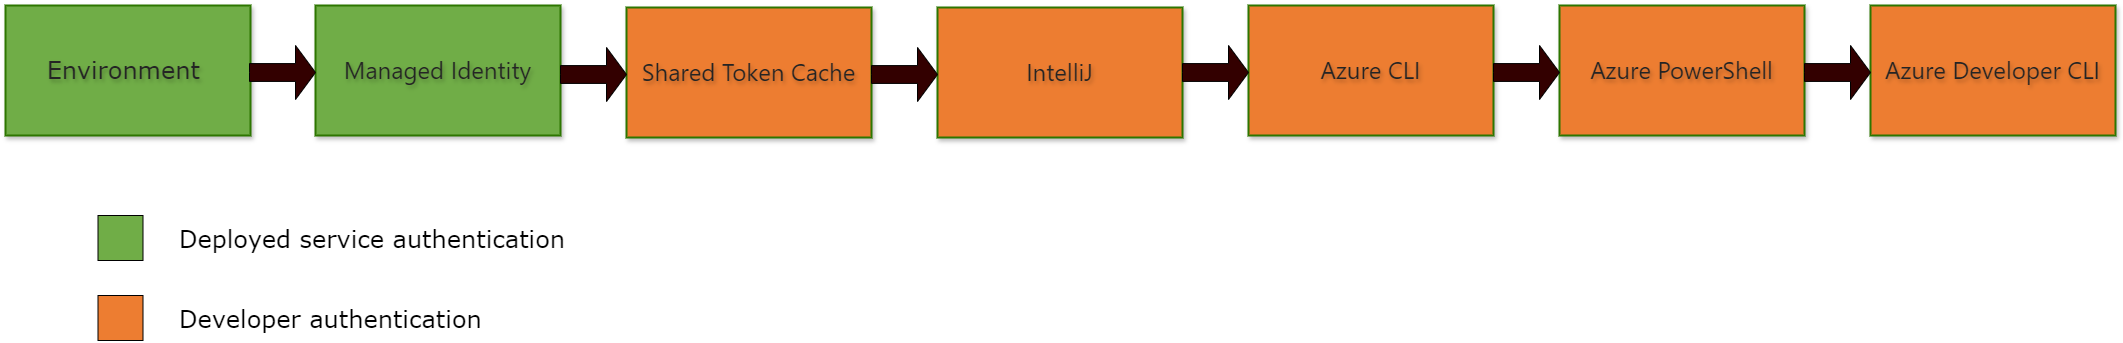
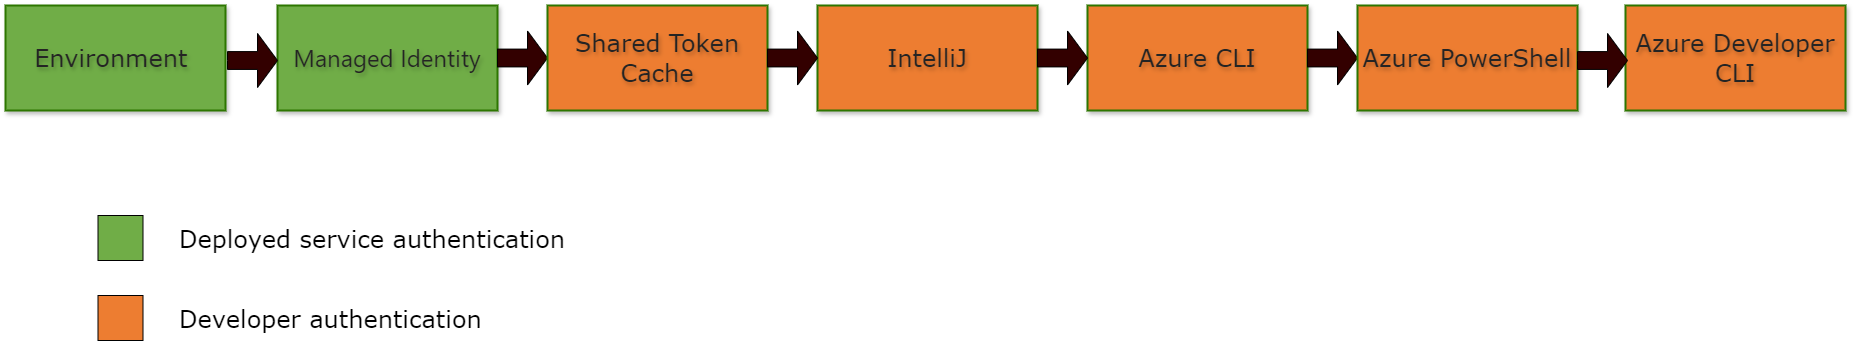
Improve png and applied suggestions from Scorecard

Changed region(s): [[0.0, 0.0, 1.0, 0.4373], [0.0308, 0.6122, 0.3076, 0.758], [0.0308, 0.8455, 0.2768, 1.0]]

diff --git a/articles/java/spring-framework/authentication.md b/articles/java/spring-framework/authentication.md
@@ -16,53 +16,53 @@ This article describes all the Spring Cloud Azure authentication methods.
 
 ## DefaultAzureCredential
 
-The `DefaultAzureCredential` is appropriate for most scenarios where the application is intended to be run in the Azure Cloud. This is because the `DefaultAzureCredential` combines credentials commonly used to authenticate when deployed with credentials used to authenticate in a development environment.
+The `DefaultAzureCredential` is appropriate for most scenarios where the application is intended to be run in the Azure Cloud, which is because the `DefaultAzureCredential` combines credentials commonly used to authenticate when deployed with credentials used to authenticate in a development environment.
 
 > [!NOTE]
-> `DefaultAzureCredential` is intended to simplify getting started with the Azure SDK by handling common scenarios with reasonable default behaviors. If you want more control or your scenario isn't served by the default settings, you should use other credential types.
+> `DefaultAzureCredential` is intended to simplify getting started with the Azure SDK by handling common scenarios with reasonable default behaviors. If you want more control or the default settings does not meet your scenario, you should use other credential types.
 
-The `DefaultAzureCredential` will attempt to authenticate via the following mechanisms in order:
+The `DefaultAzureCredential` attempts to authenticate via the following mechanisms in order:
 
 :::image type="content" source="media/spring-cloud-azure/default-azure-credential-authentication.png" alt-text="Diagram showing the authentication mechanism for `DefaultAzureCredential`." border="false":::
 
-* Environment - The `DefaultAzureCredential` will read account information specified via environment variables and use it to authenticate.
-* Managed Identity - If the application is deployed to an Azure host with Managed Identity enabled, the `DefaultAzureCredential` will authenticate with that account.
-* Shared Token Cache - If you've authenticated via Visual Studio, the `DefaultAzureCredential` will authenticate with that account.
-* IntelliJ - If you've authenticated via Azure Toolkit for IntelliJ, the `DefaultAzureCredential` will authenticate with that account.
-* Azure CLI - If you've authenticated an account via the Azure CLI `az login` command, the `DefaultAzureCredential` will authenticate with that account.
-* Azure PowerShell - If you've authenticated via the Azure Powershell, the `DefaultAzureCredential` will authenticate with that account.
-* Azure Developer CLI - If you've authenticated via the Azure Developer CLI, the `DefaultAzureCredential` will authenticate with that account.
+* Environment - The `DefaultAzureCredential` tries to read account information specified via environment variables and use it to authenticate.
+* Managed Identity - If the application is deployed to an Azure host with Managed Identity enabled, the `DefaultAzureCredential` tries to authenticate with that account.
+* Shared Token Cache - If you authenticated via Visual Studio, the `DefaultAzureCredential` tries to authenticate with that account.
+* IntelliJ - If you authenticated via Azure Toolkit for IntelliJ, the `DefaultAzureCredential` tries to authenticate with that account.
+* Azure CLI - If you authenticated an account via the Azure CLI `az login` command, the `DefaultAzureCredential` tries to authenticate with that account.
+* Azure PowerShell - If you authenticated via the Azure PowerShell, the `DefaultAzureCredential` tries to authenticate with that account.
+* Azure Developer CLI - If you authenticated via the Azure Developer CLI, the `DefaultAzureCredential` tries to authenticate with that account.
 
 > [!TIP]
-> Be sure the security principal has been granted sufficient permission to access the Azure resource. For more information, see [Authorize access with Microsoft Entra ID](#authorize-access-with-azure-active-directory).
+> Be sure the security principal has sufficient permission to access the Azure resource. For more information, see [Authorize access with Microsoft Entra ID](#authorize-access-with-azure-active-directory).
 
 > [!NOTE]
-> Since Spring Cloud Azure AutoConfigure 4.1.0, a `ThreadPoolTaskExecutor` bean named `springCloudAzureCredentialTaskExecutor` will be automatically registered by default and will manage all threads created by Azure Identity. The name of each thread managed by this thread pool is prefixed with `az-identity-`. This `ThreadPoolTaskExecutor` bean is independent of the `Executor` bean provided by Spring Boot.
+> Since Spring Cloud Azure AutoConfigure 4.1.0, register a `ThreadPoolTaskExecutor` bean named `springCloudAzureCredentialTaskExecutor` to manage all threads created by Azure Identity. The name of each thread managed by this thread pool is prefixed with `az-identity-`. This `ThreadPoolTaskExecutor` bean is independent of the `Executor` bean provided by Spring Boot.
 
 ## Managed identities
 
 A common challenge is the management of secrets and credentials used to secure communication between different components making up a solution. Managed identities eliminate the need to manage credentials. Managed identities provide an identity for applications to use when connecting to resources that support Microsoft Entra authentication. Applications may use the managed identity to obtain Microsoft Entra tokens. For example, an application may use a managed identity to access resources like Azure Key Vault where you can store credentials in a secure manner or to access storage accounts.
 
-We encourage using managed identity instead of using connection string or key in your application because it's more secure and will save the trouble of managing secrets and credentials. In this case, `DefaultAzureCredential` could better serve the scenario of developing locally using account information stored locally, then deploying the application to Azure Cloud and using managed identity.
+We encourage using managed identity instead of using connection string or key in your application because it's more secure and saves the trouble of managing secrets and credentials. In this case, `DefaultAzureCredential` could better serve the scenario of developing locally using account information stored locally, then deploying the application to Azure Cloud and using managed identity.
 
 ### Managed identity types
 
 There are two types of managed identities:
 
-* *System-assigned* - Some Azure services allow you to enable a managed identity directly on a service instance. When you enable a system-assigned managed identity, an identity is created in Microsoft Entra that's tied to the lifecycle of that service instance. So when the resource is deleted, Azure automatically deletes the identity for you. By design, only that Azure resource can use this identity to request tokens from Microsoft Entra ID.
+* *System-assigned* - Some Azure services allow you to enable a managed identity directly on a service instance. When you enable a system-assigned managed identity, an identity is created in Microsoft Entra that's bound to the lifecycle of that service instance. So when the resource is deleted, Azure automatically deletes the identity for you. By design, only that Azure resource can use this identity to request tokens from Microsoft Entra ID.
 * *User-assigned* - You may also create a managed identity as a standalone Azure resource. You can create a user-assigned managed identity and assign it to one or more instances of an Azure service. With user-assigned managed identities, the identity is managed separately from the resources that use it.
 
 > [!NOTE]
 > When using a user-assigned managed identity, you can specify the client ID via `spring.cloud.azure.credential.client-id` or `spring.cloud.azure.<azure-service>.credential.client-id`. You don't need credential configuration if you use a system-assigned managed identity.
 
 > [!TIP]
-> Be sure the security principal has been granted sufficient permission to access the Azure resource. For more information, see [Authorize access with Microsoft Entra ID](#authorize-access-with-azure-active-directory).
+> In order to access the Azure resource, be sure the security principal has sufficient permission. For more information, see [Authorize access with Microsoft Entra ID](#authorize-access-with-azure-active-directory).
 
 For more information about managed identity, see [What are managed identities for Azure resources?](/azure/active-directory/managed-identities-azure-resources/overview).
 
 ## Other credential types
 
-If you want more control, or your scenario isn't served by the `DefaultAzureCredential` or the default settings, you should use other credential types.
+If you want more control, the `DefaultAzureCredential` or the default settings doesn't meet your scenario, you should use other credential types.
 
 <a name='authentication-and-authorization-with-azure-active-directory'></a>
 
@@ -95,7 +95,7 @@ The following table lists authentication properties:
 > [!TIP]
 > For the list of all Spring Cloud Azure configuration properties, see [Spring Cloud Azure configuration properties](configuration-properties-all.md).
 
-The application will look in several places to find an available credential, a custom bean of type `TokenCredential` will be used first if the property `token-credential-bean-name` is specified, and will use `DefaultAzureCredential` if no credential properties are configured. If you want to use specific credential, see the following examples for guidance.
+The application looks in several places to find an available credential, each Azure SDK client builder factory adopts a custom bean of type `TokenCredential` first if the property `token-credential-bean-name` is specified, and fall back to use `DefaultAzureCredential` if no credential properties are configured. If you want to use specific credential, see the following examples for guidance.
 
 The following example shows you how to define a custom token credential bean, then authenticate with the token credential bean name:
 
@@ -141,7 +141,7 @@ spring.cloud.azure:
 ```
 
 > [!NOTE]
-> The values allowed for `tenant-id` are: `common`, `organizations`, `consumers`, or the tenant ID. For more information about these values, see the [Used the wrong endpoint (personal and organization accounts)](/troubleshoot/azure/active-directory/error-code-aadsts50020-user-account-identity-provider-does-not-exist#cause-3-used-the-wrong-endpoint-personal-and-organization-accounts) section of [Error AADSTS50020 - User account from identity provider does not exist in tenant](/troubleshoot/azure/active-directory/error-code-aadsts50020-user-account-identity-provider-does-not-exist). For information on converting your single-tenant app, see [Convert single-tenant app to multitenant on Microsoft Entra ID](/entra/identity-platform/howto-convert-app-to-be-multi-tenant).
+> The values allowed for `tenant-id` are: `common`, `organizations`, `consumers`, or the tenant ID. For more information about these values, see the [Used the wrong endpoint (personal and organization accounts)](/troubleshoot/azure/active-directory/error-code-aadsts50020-user-account-identity-provider-does-not-exist#cause-3-used-the-wrong-endpoint-personal-and-organization-accounts) section of [Error AADSTS50020 - User account from identity provider doesn't exist in tenant](/troubleshoot/azure/active-directory/error-code-aadsts50020-user-account-identity-provider-does-not-exist). For information on converting your single-tenant app, see [Convert single-tenant app to multitenant on Microsoft Entra ID](/entra/identity-platform/howto-convert-app-to-be-multi-tenant).
 
 The following example shows you how to authenticate using a service principal with a client PFX certificate:
 
@@ -156,7 +156,7 @@ spring.cloud.azure:
 ```
 
 > [!NOTE]
-> The values allowed for `tenant-id` are: `common`, `organizations`, `consumers`, or the tenant ID. For more information about these values, see the [Used the wrong endpoint (personal and organization accounts)](/troubleshoot/azure/active-directory/error-code-aadsts50020-user-account-identity-provider-does-not-exist#cause-3-used-the-wrong-endpoint-personal-and-organization-accounts) section of [Error AADSTS50020 - User account from identity provider does not exist in tenant](/troubleshoot/azure/active-directory/error-code-aadsts50020-user-account-identity-provider-does-not-exist). For information on converting your single-tenant app, see [Convert single-tenant app to multitenant on Microsoft Entra ID](/entra/identity-platform/howto-convert-app-to-be-multi-tenant).
+> The values allowed for `tenant-id` are: `common`, `organizations`, `consumers`, or the tenant ID. For more information about these values, see the [Used the wrong endpoint (personal and organization accounts)](/troubleshoot/azure/active-directory/error-code-aadsts50020-user-account-identity-provider-does-not-exist#cause-3-used-the-wrong-endpoint-personal-and-organization-accounts) section of [Error AADSTS50020 - User account from identity provider doesn't exist in tenant](/troubleshoot/azure/active-directory/error-code-aadsts50020-user-account-identity-provider-does-not-exist). For information on converting your single-tenant app, see [Convert single-tenant app to multitenant on Microsoft Entra ID](/entra/identity-platform/howto-convert-app-to-be-multi-tenant).
 
 The following example shows you how to authenticate using a service principal with client PEM certificate:
 
@@ -170,7 +170,7 @@ spring.cloud.azure:
 ```
 
 > [!NOTE]
-> The values allowed for `tenant-id` are: `common`, `organizations`, `consumers`, or the tenant ID. For more information about these values, see the [Used the wrong endpoint (personal and organization accounts)](/troubleshoot/azure/active-directory/error-code-aadsts50020-user-account-identity-provider-does-not-exist#cause-3-used-the-wrong-endpoint-personal-and-organization-accounts) section of [Error AADSTS50020 - User account from identity provider does not exist in tenant](/troubleshoot/azure/active-directory/error-code-aadsts50020-user-account-identity-provider-does-not-exist). For information on converting your single-tenant app, see [Convert single-tenant app to multitenant on Microsoft Entra ID](/entra/identity-platform/howto-convert-app-to-be-multi-tenant).
+> The values allowed for `tenant-id` are: `common`, `organizations`, `consumers`, or the tenant ID. For more information about these values, see the [Used the wrong endpoint (personal and organization accounts)](/troubleshoot/azure/active-directory/error-code-aadsts50020-user-account-identity-provider-does-not-exist#cause-3-used-the-wrong-endpoint-personal-and-organization-accounts) section of [Error AADSTS50020 - User account from identity provider doesn't exist in tenant](/troubleshoot/azure/active-directory/error-code-aadsts50020-user-account-identity-provider-does-not-exist). For information on converting your single-tenant app, see [Convert single-tenant app to multitenant on Microsoft Entra ID](/entra/identity-platform/howto-convert-app-to-be-multi-tenant).
 
 The following example shows you how to authenticate using a user credential:
 
@@ -182,7 +182,7 @@ spring.cloud.azure:
     password: ${AZURE_USER_PASSWORD}
 ```
 
-The following example shows you how to authenticate with Key Vault using a different service principal. This example configures the application with two credentials: one system-assigned managed identity and one service principal. The Key Vault Secret client will use the service principal, but any other components will use managed identity instead.
+The following example shows you how to authenticate with Key Vault using a different service principal. This example configures the application with two credentials: one system-assigned managed identity and one service principal. The Key Vault Secret client uses the service principal, but any other components use managed identity instead.
 
 ```yaml
 spring.cloud.azure:
@@ -197,13 +197,13 @@ spring.cloud.azure:
 ```
 
 > [!NOTE]
-> The values allowed for `tenant-id` are: `common`, `organizations`, `consumers`, or the tenant ID. For more information about these values, see the [Used the wrong endpoint (personal and organization accounts)](/troubleshoot/azure/active-directory/error-code-aadsts50020-user-account-identity-provider-does-not-exist#cause-3-used-the-wrong-endpoint-personal-and-organization-accounts) section of [Error AADSTS50020 - User account from identity provider does not exist in tenant](/troubleshoot/azure/active-directory/error-code-aadsts50020-user-account-identity-provider-does-not-exist). For information on converting your single-tenant app, see [Convert single-tenant app to multitenant on Microsoft Entra ID](/entra/identity-platform/howto-convert-app-to-be-multi-tenant).
+> The values allowed for `tenant-id` are: `common`, `organizations`, `consumers`, or the tenant ID. For more information about these values, see the [Used the wrong endpoint (personal and organization accounts)](/troubleshoot/azure/active-directory/error-code-aadsts50020-user-account-identity-provider-does-not-exist#cause-3-used-the-wrong-endpoint-personal-and-organization-accounts) section of [Error AADSTS50020 - User account from identity provider doesn't exist in tenant](/troubleshoot/azure/active-directory/error-code-aadsts50020-user-account-identity-provider-does-not-exist). For information on converting your single-tenant app, see [Convert single-tenant app to multitenant on Microsoft Entra ID](/entra/identity-platform/howto-convert-app-to-be-multi-tenant).
 
 <a name='authorize-access-with-azure-active-directory'></a>
 
 #### Authorize access with Microsoft Entra ID
 
-The authorization step requires that one or more Azure roles be assigned to the security principal. The roles that are assigned to a security principal determine the permissions that the principal will have.
+The authorization step requires that one or more Azure roles be assigned to the security principal. The roles that are assigned to a security principal determine the permissions that the principal has.
 
 > [!TIP]
 > For the list of all Azure built-in roles, see [Azure built-in roles](/azure/role-based-access-control/built-in-roles).
@@ -240,4 +240,4 @@ You can also configure services for authentication with Shared Access Signature 
 
 ### Connection strings
 
-Connection string is supported by some Azure services to provide connection information and credentials. To connect to those Azure services using connection string, just configure `spring.cloud.azure.<azure-service>.connection-string`. For example, configure `spring.cloud.azure.eventhubs.connection-string` to connect to the Event Hubs service.
+Some Azure services support connection string to provide connection information and credentials. To connect to those Azure services using connection string, just configure `spring.cloud.azure.<azure-service>.connection-string`. For example, configure `spring.cloud.azure.eventhubs.connection-string` to connect to the Event Hubs service.
